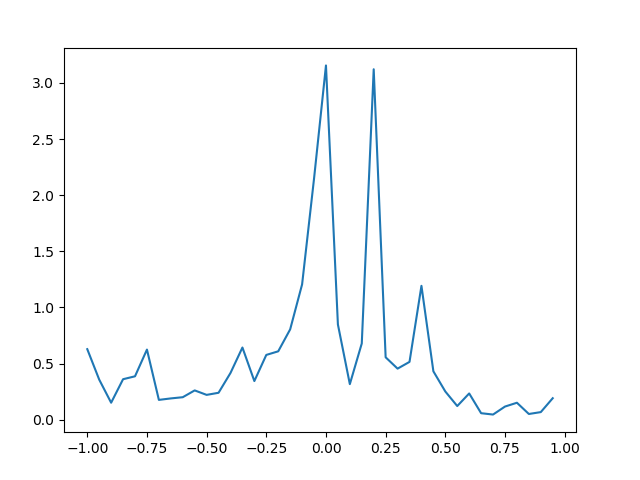
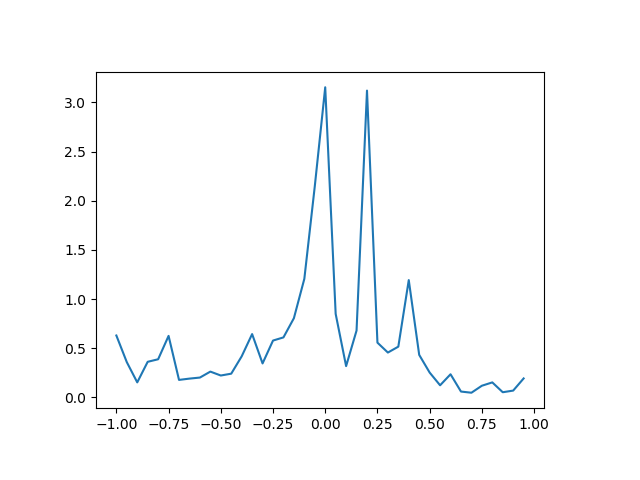
fix pics

diff --git a/bin/pgen.py b/bin/pgen.py
@@ -9,19 +9,19 @@ if __name__ == "__main__":
             obv = df.columns[-1]
 
             fig = plt.figure()
-            axes = fig.add_axes([0.1,0.1,0.8,0.8])
+            axes = fig.add_axes([0.15,0.15,0.7,0.7])
             axes.plot(df[obv], df.result)
             fig.savefig("pics/" + fname[:-4]+"_Res.png")
             fig.close()
             fig = plt.figure()
             
-            axes = fig.add_axes([0.1,0.1,0.8,0.8])
+            axes = fig.add_axes([0.15,0.15,0.7,0.7])
             axes.plot(df[obv], df.std_err)
             fig.savefig("pics/" + fname[:-4]+"_Err.png")
             fig.close()
             fig = plt.figure()
             
-            axes = fig.add_axes([0.1,0.1,0.8,0.8])
+            axes = fig.add_axes([0.15,0.15,0.7,0.7])
             axes.plot(df[obv], df.time_usage)
             fig.savefig("pics/" + fname[:-4]+"_Tme.png")
             fig.close()
